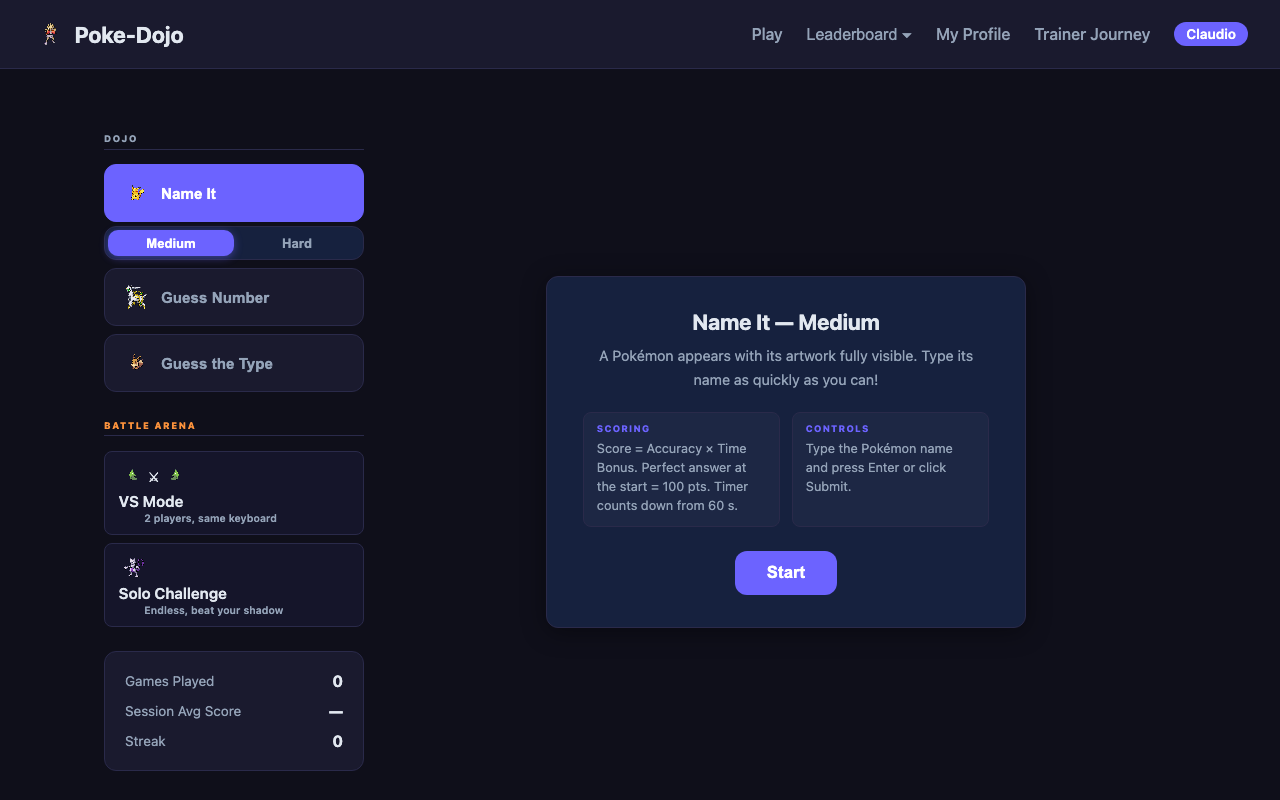
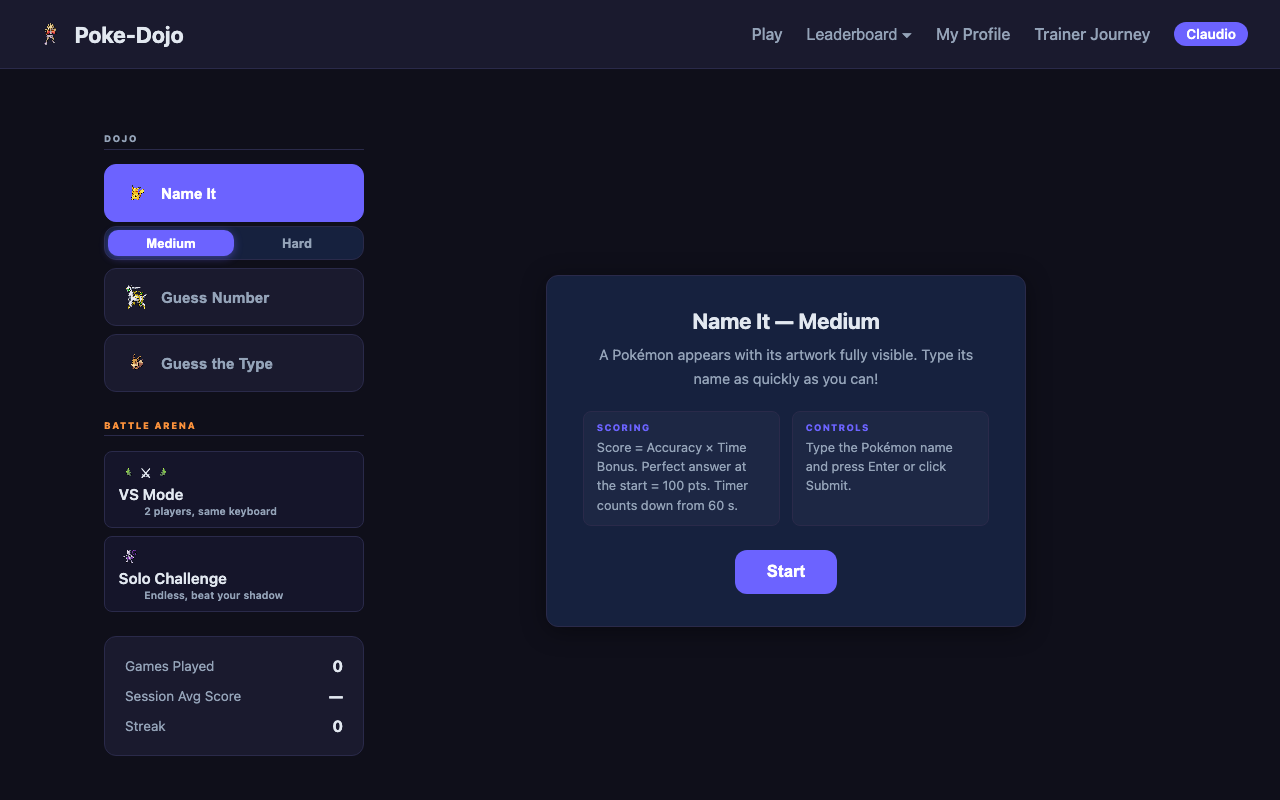
Reduce Metapod battle-btn sprites to 20px to match Dojo mode sprite visual weight

diff --git a/static/css/style.css b/static/css/style.css
@@ -1323,7 +1323,7 @@ a:hover { color: var(--accent-hover); }
 }
 .battle-btn:hover { background: rgba(99, 102, 241, 0.18); border-color: #6366f1; }
 .battle-btn-icon { font-size: 1.1rem; margin-right: 0.4rem; display: inline-flex; align-items: center; gap: 2px; }
-.battle-btn-sprite { width: 28px; height: 28px; image-rendering: pixelated; vertical-align: middle; }
+.battle-btn-sprite { width: 20px; height: 20px; image-rendering: pixelated; vertical-align: middle; }
 .battle-btn-sprite-flip { transform: scaleX(-1); }
 .battle-btn-sub { font-size: 0.65rem; color: var(--text-muted); margin-left: 1.6rem; }
 